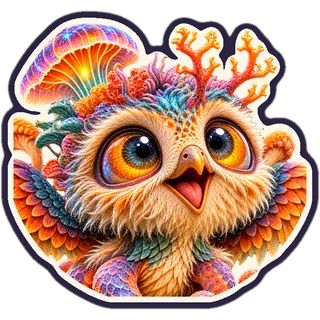
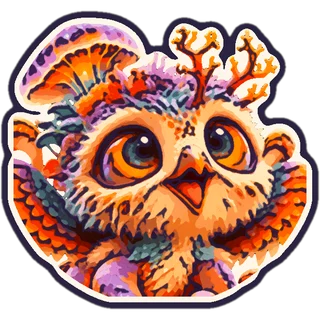
Cartoon-style sticker markers for all creatures
Markers now get a cartoon filter (flattened colors, dark ink lines) on top
of the head crop and thick outline. make-marker.py does the whole thing.

Claude-Session: https://claude.ai/code/session_01UJjGmRwGHT1wsLLLdk5evN

diff --git a/creatures.js b/creatures.js
@@ -71,7 +71,7 @@
       eyes: [[34, 46, 8], [52, 40, 9], [68, 50, 7]], mouth: "M38 66 Q50 74 62 66",
     },
     { // Toadstool: the mushroom toad (artwork image) - red patches
-      img: "assets/creatures/c04.webp?v=2",
+      img: "assets/creatures/c04.webp?v=3",
     },
     { // Stalky: eyes on stalks
       back: (c) => `<path d="M38 40 Q32 22 28 14 M62 40 Q68 22 72 14" stroke="${c}" stroke-width="7" stroke-linecap="round" fill="none"/>` +
@@ -95,7 +95,7 @@
   // when a color has no creature of its own (pink, brown) or is already taken.
   // Color index: 0 pink 1 orange 2 mustard 3 green 4 teal 5 blue 6 purple
   // 7 brown 8 slate 9 red 10 lime 11 magenta 12 sand
-  const ART_V = 2;
+  const ART_V = 3;
   const CREATURES = [
     { id: "c01", colors: [8, 12] },      // shaggy one-eyed sad fluff
     { id: "c02", colors: [11, 0] },      // two-headed bird

diff --git a/index.html b/index.html
@@ -224,7 +224,7 @@
   <script src="config.js?v=33"></script>
   <script src="leaderboard.js?v=33"></script>
   <script src="puzzle.js?v=33"></script>
-  <script src="creatures.js?v=36"></script>
+  <script src="creatures.js?v=37"></script>
   <script src="game.js?v=34"></script>
 </body>
 </html>

diff --git a/tools/make-marker.py b/tools/make-marker.py
@@ -1,7 +1,40 @@
-# Makes a sticker-style board marker (head close-up + thick dark outline) from a
-# transparent creature PNG. Box = the head area as fractions of the image (x0 y0 x1 y1).
+# Makes a cartoon sticker board marker from a transparent creature PNG:
+# head close-up, cartoon filter (flattened colors + dark ink lines), thick #2B2340 outline.
+# Box = the head area as fractions of the image (x0 y0 x1 y1).
 # Usage: python3 tools/make-marker.py creature.png assets/creatures/cNN.webp 0.4 0 1 0.55
-# BOX below records the boxes used for the first 19 creatures.
+# BOX below records the boxes used for the first 19 creatures. Needs opencv + pillow.
+import cv2, numpy as np
+from PIL import Image
+TOON_INK = np.array([64,35,43], np.float32)
+def toonify(rgba, k=18):
+    a = np.array(rgba); al = a[...,3]
+    bgr = cv2.cvtColor(a[...,:3].copy(), cv2.COLOR_RGB2BGR)
+    sm = bgr
+    for _ in range(3): sm = cv2.bilateralFilter(sm, 9, 45, 7)
+    sm = cv2.pyrMeanShiftFiltering(sm, 9, 24)
+    lab = cv2.cvtColor(sm, cv2.COLOR_BGR2LAB).reshape(-1,3).astype(np.float32)
+    m = al.reshape(-1) > 40
+    crit=(cv2.TERM_CRITERIA_EPS+cv2.TERM_CRITERIA_MAX_ITER, 20, 1.0)
+    _, lbl, ctr = cv2.kmeans(lab[m], k, None, crit, 3, cv2.KMEANS_PP_CENTERS)
+    q = lab.copy(); q[m] = ctr[lbl.flatten()]
+    q = cv2.cvtColor(q.reshape(sm.shape).astype(np.uint8), cv2.COLOR_LAB2BGR)
+    q = cv2.medianBlur(q, 7)
+    q = cv2.addWeighted(q, 0.8, sm, 0.2, 0)
+    hsv = cv2.cvtColor(q, cv2.COLOR_BGR2HSV).astype(np.float32)
+    hsv[...,1] = np.clip(hsv[...,1]*1.3, 0, 255); hsv[...,2] = np.clip(hsv[...,2]*1.05+6, 0, 255)
+    q = cv2.cvtColor(hsv.astype(np.uint8), cv2.COLOR_HSV2BGR)
+    g = cv2.medianBlur(cv2.cvtColor(sm, cv2.COLOR_BGR2GRAY), 9)
+    e = 255 - cv2.adaptiveThreshold(g, 255, cv2.ADAPTIVE_THRESH_MEAN_C, cv2.THRESH_BINARY, 15, 8)
+    e[al < 128] = 0
+    n, cc, st, _ = cv2.connectedComponentsWithStats(e, 8)
+    keep = np.zeros_like(e)
+    for i in range(1, n):
+        if st[i, cv2.CC_STAT_AREA] >= 140: keep[cc == i] = 255
+    keep = cv2.GaussianBlur(keep, (3,3), 0)
+    f = (keep.astype(np.float32)/255.0)[...,None]*0.85
+    q = (q*(1-f) + TOON_INK*f).astype(np.uint8)
+    return Image.fromarray(np.dstack([cv2.cvtColor(q, cv2.COLOR_BGR2RGB), al]), 'RGBA')
+
 from PIL import Image, ImageDraw, ImageFilter, ImageEnhance, ImageChops
 import sys
 names={}  # original upload ids (not kept); pass a file path for new art
@@ -18,6 +51,7 @@ def make(n, src=None, b=None):
   c=Image.new('RGBA',(box[2]-box[0],box[3]-box[1]),(0,0,0,0)); c.paste(im.crop(box),(0,0))
   pad=int(S*0.06); inner=S-2*pad
   c=c.resize((inner,inner),Image.LANCZOS)
+  c=toonify(c)
   # round off cut edges: keep art inside a soft rounded blob
   blob=Image.new('L',(inner,inner),0); ImageDraw.Draw(blob).ellipse((-inner*.03,-inner*.03,inner*1.03,inner*1.03),fill=255)
   a=ImageChops.multiply(c.getchannel('A'),blob)

diff --git a/CLAUDE.md b/CLAUDE.md
@@ -42,7 +42,7 @@ no two may touch, even diagonally. Every board has exactly one solution.
 - Home screen: `pickHero()` shows a random creature from the whole library each visit
   (never the same twice in a row). The little 3×3 home board uses its own random cast.
 - Board markers (`assets/creatures/cNN.webp`, 320×320) are **sticker icons**, not the full art:
-  head close-up, rounded cut edge, thick #2B2340 outline with a thin cream rim (matches the
+  head close-up, cartoon filter (flat colors + dark ink lines), rounded cut edge, thick #2B2340 outline with a thin cream rim (matches the
   owner's original toad marker). The full art is only used on the home screen (`heroes/`).
 - **To add a creature:** trim the transparent PNG, make `assets/heroes/cNN.webp` (longest side
   840), make the marker with `python3 tools/make-marker.py art.png assets/creatures/cNN.webp x0 y0 x1 y1`
